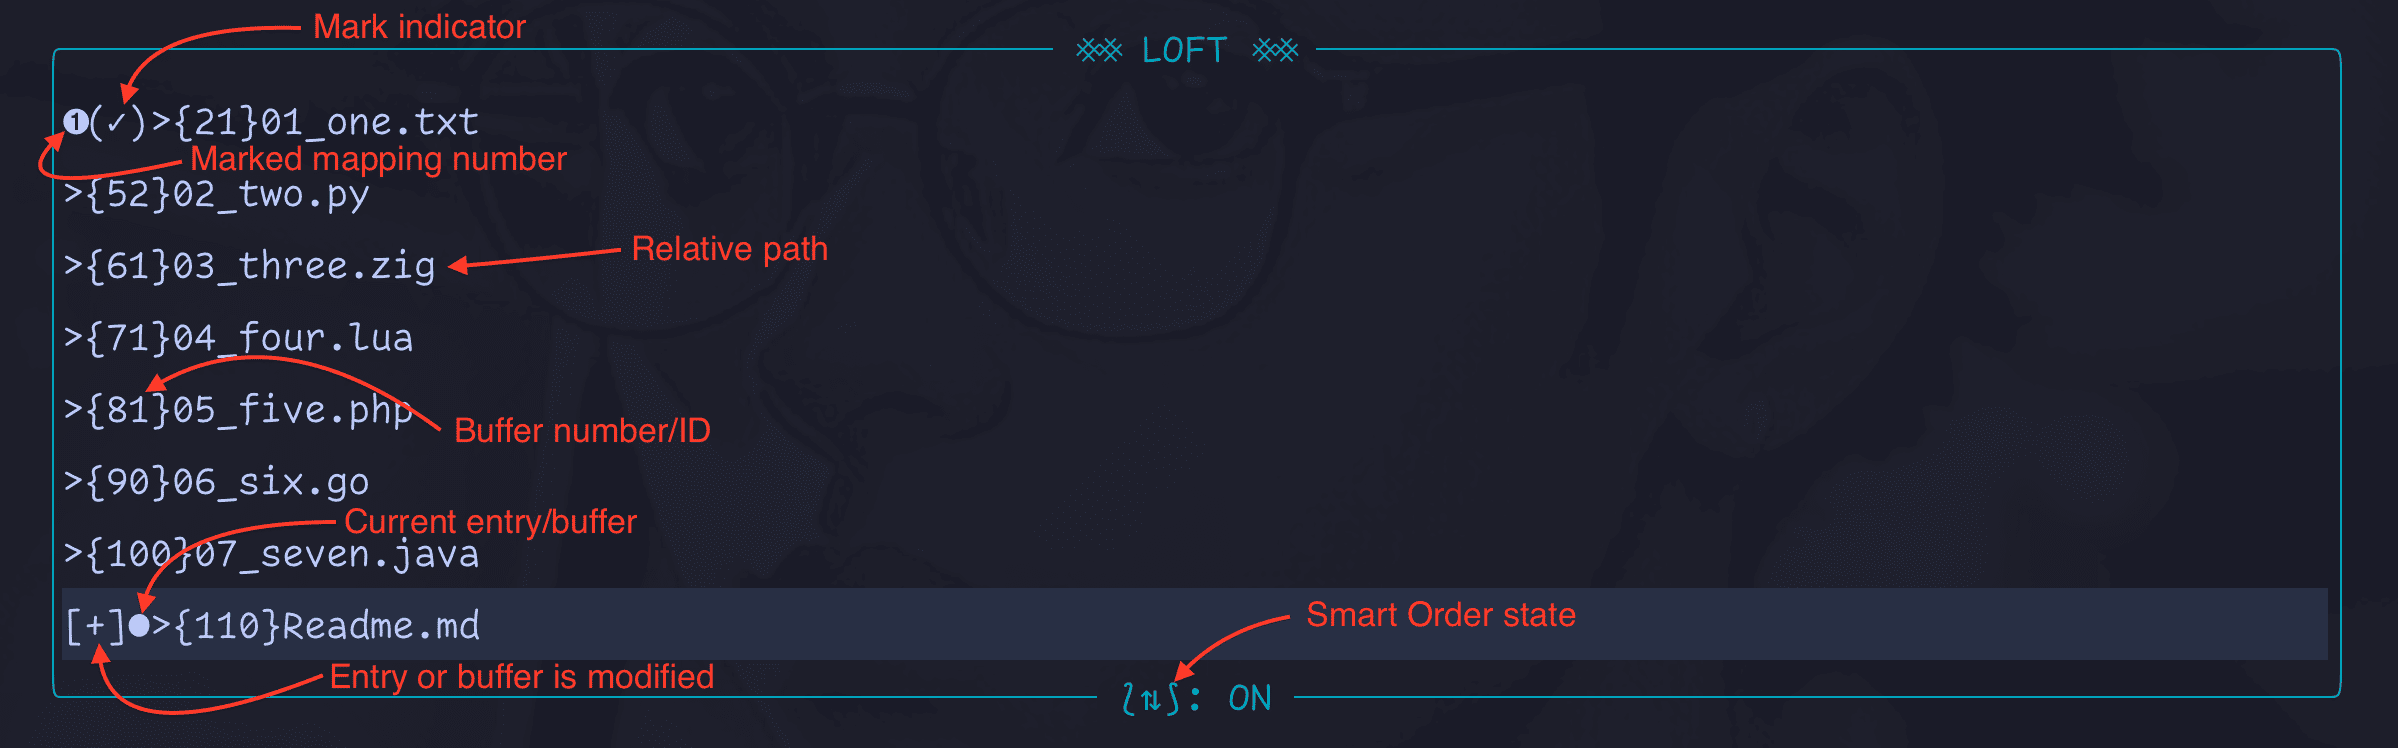
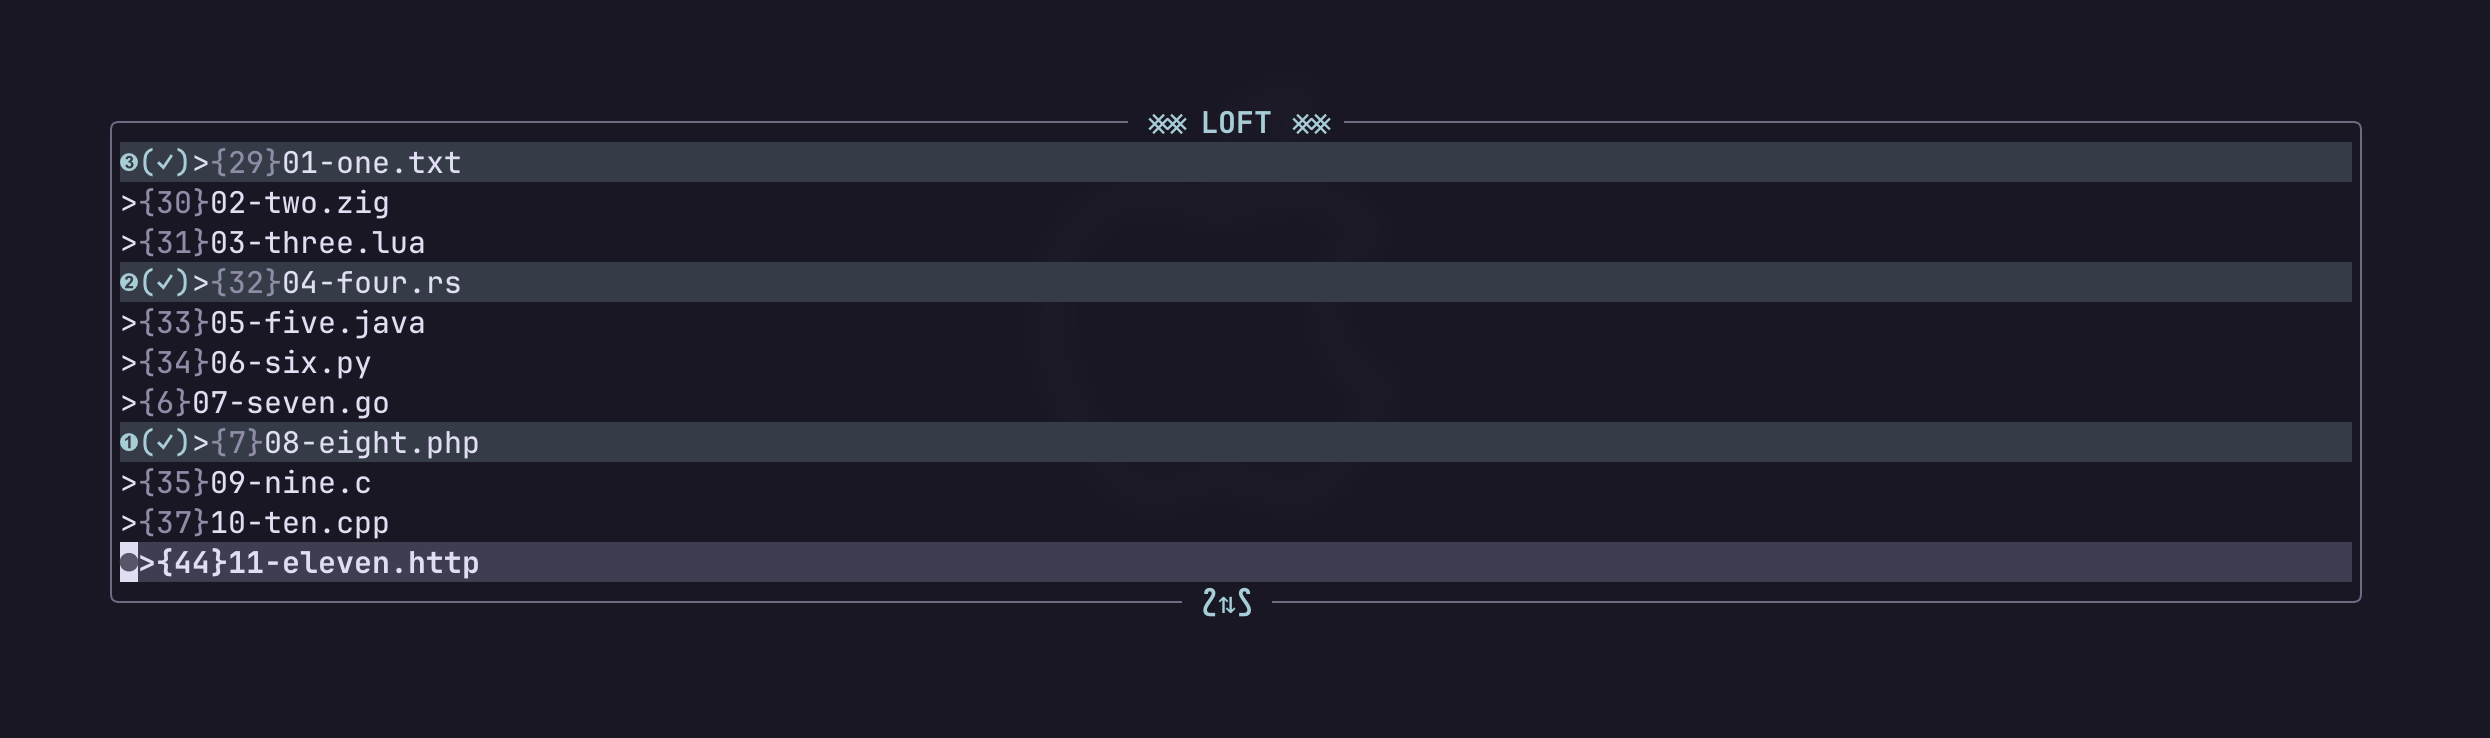
docs(readme): update showcase imgs

diff --git a/README.md b/README.md
@@ -17,9 +17,7 @@
 
 ## Introduction
 
-https://github.com/user-attachments/assets/312a06be-a2c0-4f4f-9fd2-e404c737cb89
-
-Loft is a powerful yet lightweight Neovim plugin that makes buffer management fast, intuitive, and frustration-free—so you can focus on what truly matters. 🚀
+Loft is a powerful yet lightweight Neovim plugin that makes buffer management fast, intuitive, and frustration-free—so you can focus on what truly matters.
 
 ### 🛑 The Problem: Buffer Chaos!
 
@@ -27,7 +25,7 @@ Imagine your Neovim buffer list is like a messy desk. You start with a clean wor
 
 Ever rage-quit Neovim just to start fresh? You’re not alone.
 
-### ✅ The Solution: Loft 🔥
+### ✅ The Solution: Loft
 
 <div align="center">
   <img src="assets/showcase.png" alt="Showcase" />
@@ -43,7 +41,7 @@ Loft uses a registry to manage state and track buffers that can be cyclically na
 
   The marking feature allows you to bookmark important buffers. The marked buffers/entries (identified by the symbol `(✓)`) can be specially navigated to cyclically or by keybinding. You read right, keybinding; the nine most recent buffers are automatically mapped for quick access anytime.
 
-No more scrambling to find where you left off. No more accidental closures. **Just smooth, intelligent buffer management.** 🚀
+No more scrambling to find where you left off. No more accidental closures. **Just smooth, intelligent buffer management.** 🔥
 
 ## Installation
 
@@ -454,8 +452,8 @@ vim.api.nvim_create_autocmd("User", {
 
 Here's what your statusline would look like:
 
-<div>
-  <img src="assets/statusline_showcase.png" width="300" alt="Statusline Showcase" />
+<div align="center">
+  <img src="assets/statusline_showcase.png" alt="Statusline Showcase" />
 </div>
 <br />
 
